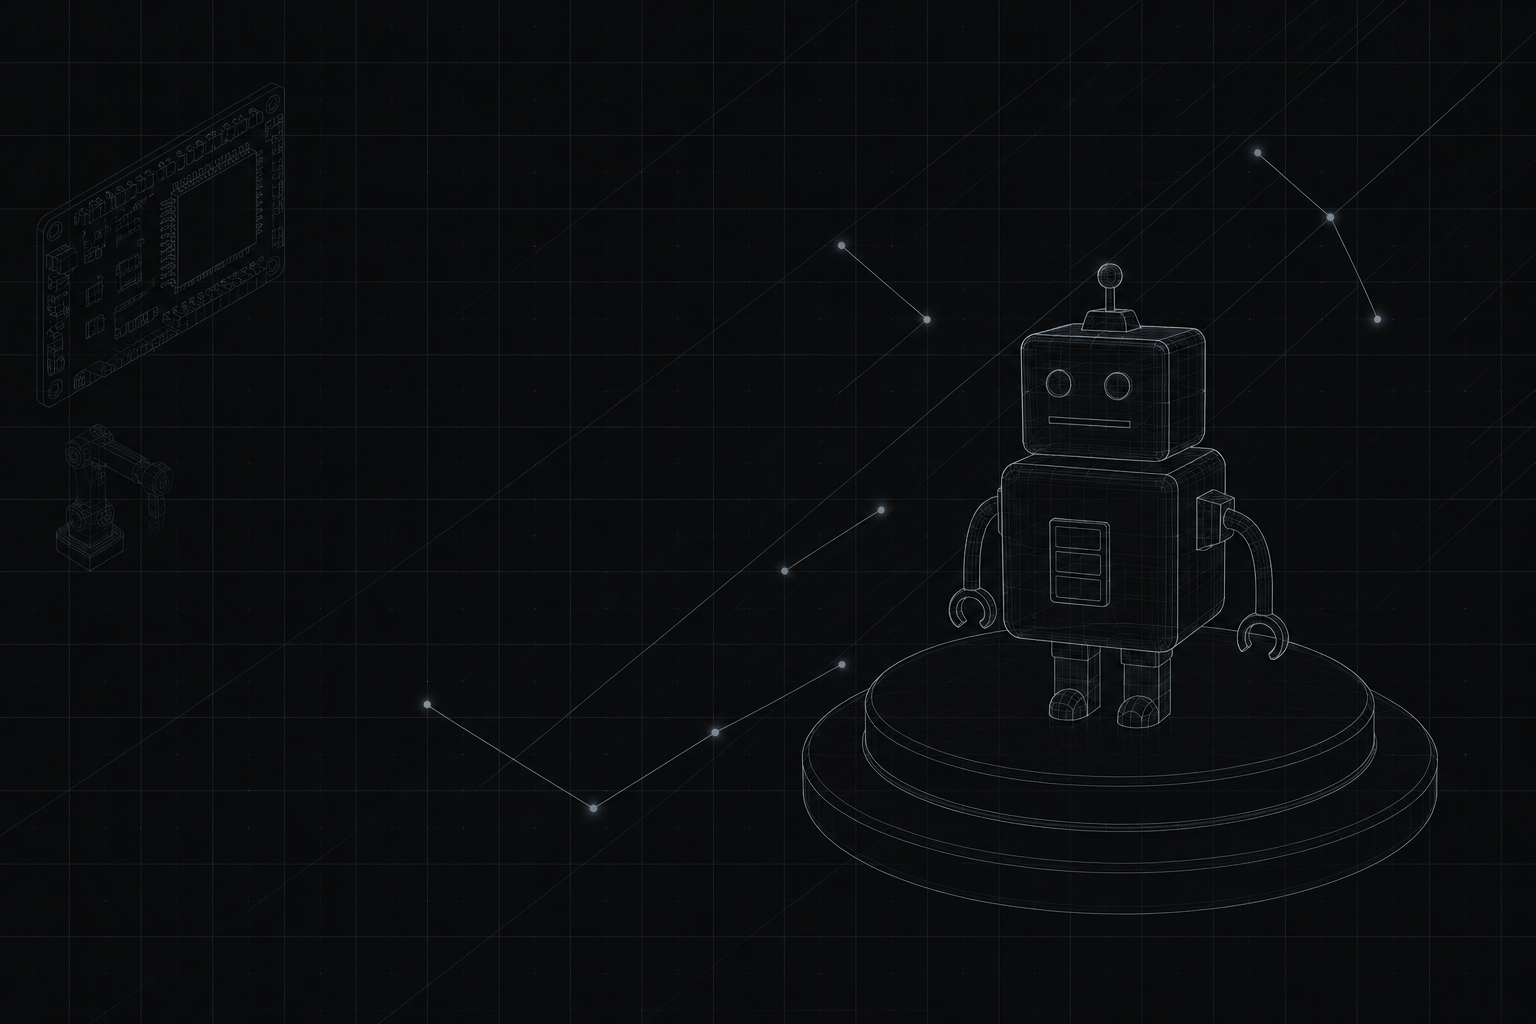
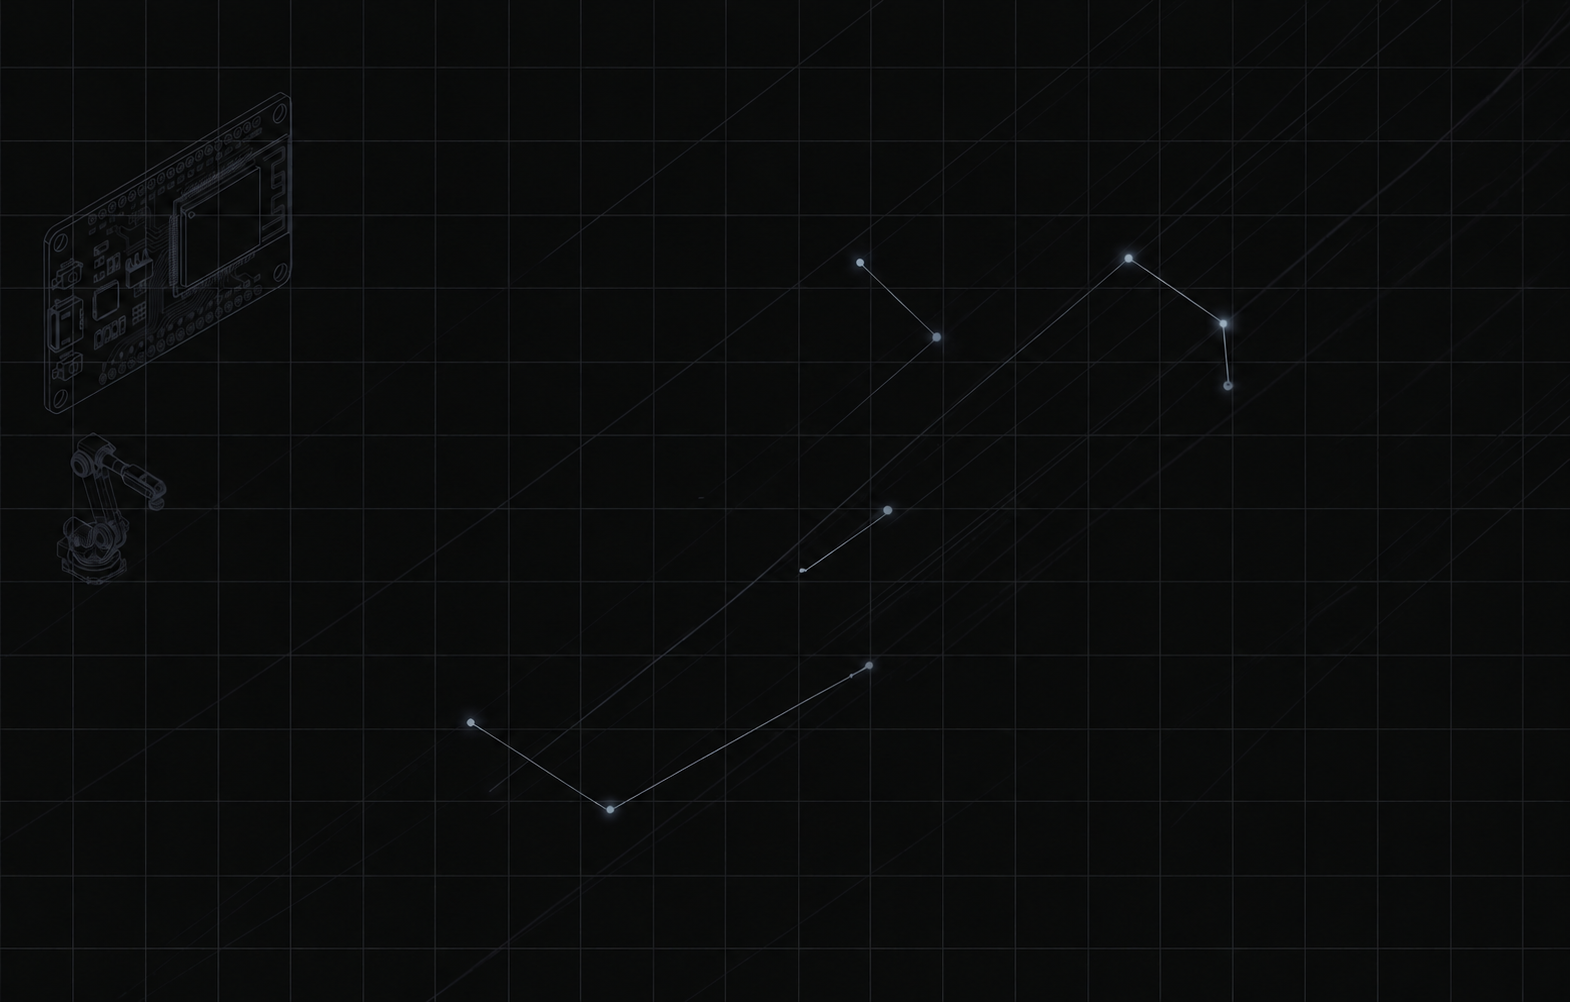
feat: about page

diff --git a/components/About.tsx b/components/About.tsx
@@ -1,0 +1,103 @@
+'use client';
+
+import { useRef, useState } from 'react';
+import { motion, useScroll, useTransform, useMotionValueEvent, AnimatePresence } from 'framer-motion';
+
+export default function About() {
+  const sectionRef = useRef<HTMLElement>(null);
+  
+  // We use this state to strictly track which text should exist in the HTML
+  const [activeIndex, setActiveIndex] = useState(0);
+  
+  const { scrollYProgress } = useScroll({
+    target: sectionRef,
+    offset: ["start start", "end end"]
+  });
+
+  // This acts as our precise scroll engine. 
+  useMotionValueEvent(scrollYProgress, "change", (latest) => {
+    if (latest < 0.4) {
+      setActiveIndex(0); // Show ROBOVITICS
+    } else if (latest >= 0.4 && latest < 0.6) {
+      setActiveIndex(-1); // Show NOTHING (The dead zone gap)
+    } else {
+      setActiveIndex(1); // Show VIT
+    }
+  });
+
+  const progressHeight = useTransform(scrollYProgress, [0, 1], ["0%", "100%"]);
+
+  return (
+    <section id="about" ref={sectionRef} className="relative z-40 h-[300vh] w-full text-white pointer-events-none">
+      
+      <div className="sticky top-0 h-screen w-full flex flex-col justify-center overflow-hidden px-6 md:px-12 lg:px-24 max-w-[1600px] mx-auto pointer-events-auto">
+        
+        {/* Section Header */}
+        <div className="absolute top-24 left-6 md:left-12 lg:left-24 font-mono text-gray-500 text-sm tracking-widest uppercase">
+          <span className="text-white font-bold mr-2">01.</span> System.Logs // About
+        </div>
+
+        {/* Content Container */}
+        <div className="relative w-full h-[400px] flex items-center mt-12">
+          
+          {/* Vertical Scroll Indicator */}
+          <div className="absolute left-0 top-0 bottom-0 w-[2px] bg-gray-900 rounded-full hidden md:block">
+            <motion.div 
+              style={{ height: progressHeight }} 
+              className="w-full bg-gray-300 rounded-full shadow-[0_0_10px_#D1D5DB]"
+            />
+          </div>
+
+          {/* Text Area */}
+          <div className="relative w-full h-full ml-0 md:ml-12 lg:ml-20">
+            
+            {/* AnimatePresence guarantees only ONE of these blocks can exist at a time */}
+            <AnimatePresence mode="wait">
+              
+              {/* PART 1: ROBOVITICS TEXT */}
+              {activeIndex === 0 && (
+                <motion.div 
+                  key="robo"
+                  initial={{ opacity: 0, y: 50 }}
+                  animate={{ opacity: 1, y: 0 }}
+                  exit={{ opacity: 0, y: -50 }}
+                  transition={{ duration: 0.6, ease: "easeInOut" }}
+                  className="absolute inset-0 flex flex-col justify-center"
+                >
+                  <h2 className="text-5xl md:text-7xl font-black tracking-tighter mb-6 drop-shadow-lg">
+                    WE ARE <br/> <span className="text-gray-300">ROBOVITICS.</span>
+                  </h2>
+                  <p className="text-gray-400 font-mono text-base md:text-lg max-w-2xl leading-relaxed drop-shadow-md">
+                    The official robotics club of VIT Vellore. We are a collective of engineers, designers, and innovators dedicated to pushing the boundaries of autonomous systems. We don't just study robotics; we solder the circuits, write the algorithms, and machine the parts that bring machines to life.
+                  </p>
+                </motion.div>
+              )}
+
+              {/* PART 2: VIT TEXT */}
+              {activeIndex === 1 && (
+                <motion.div 
+                  key="vit"
+                  initial={{ opacity: 0, y: 50 }}
+                  animate={{ opacity: 1, y: 0 }}
+                  exit={{ opacity: 0, y: -50 }}
+                  transition={{ duration: 0.6, ease: "easeInOut" }}
+                  className="absolute inset-0 flex flex-col justify-center"
+                >
+                  <h2 className="text-5xl md:text-7xl font-black tracking-tighter mb-6 drop-shadow-lg">
+                    POWERED BY <br/> <span className="text-gray-300">VIT VELLORE.</span>
+                  </h2>
+                  <p className="text-gray-400 font-mono text-base md:text-lg max-w-2xl leading-relaxed drop-shadow-md">
+                    Vellore Institute of Technology provides the launchpad for our ambitions. Backed by world-class infrastructure and a culture that champions disruptive tech, we leverage the university's cutting-edge manufacturing labs and research facilities to turn theoretical blueprints into heavy-duty reality.
+                  </p>
+                </motion.div>
+              )}
+              
+            </AnimatePresence>
+
+          </div>
+        </div>
+
+      </div>
+    </section>
+  );
+}

diff --git a/components/Hero.tsx b/components/Hero.tsx
@@ -2,6 +2,7 @@
 
 import { useState, useEffect } from 'react';
 import { motion, useScroll, useTransform } from 'framer-motion';
+import Image from 'next/image';
 
 export default function Hero() {
   const fullSubtitleText = "The Official Robotics Club of VIT Vellore";
@@ -22,11 +23,11 @@ export default function Hero() {
   };
 
   const letterVariant = {
-    hidden: { y: "100%", opacity: 0 },
+    hidden: { y: 60, opacity: 0 },
     visible: { 
-      y: "0%", 
+      y: 0, 
       opacity: 1,
-      transition: { duration: 0.7, ease: [0.22, 1, 0.36, 1] }
+      transition: { duration: 0.8, ease: [0.22, 1, 0.36, 1] }
     },
   };
 
@@ -55,7 +56,7 @@ export default function Hero() {
 
       {/* --- SCROLL ANIMATIONS --- */}
       
-      {/* 1. Circuit Trace Scroll Progress Line (Changed to gray-300) */}
+      {/* 1. Circuit Trace Scroll Progress Line */}
       <motion.div 
         className="fixed top-0 right-0 w-1 bg-gray-300 origin-top z-50 shadow-[0_0_15px_#D1D5DB]"
         style={{ 
@@ -78,35 +79,64 @@ export default function Hero() {
         </svg>
       </motion.div>
 
-      {/* --- HERO TEXT SECTION --- */}
-      <div className="relative z-10 flex-1 flex flex-col justify-center px-6 md:px-24 w-full max-w-[1400px] mx-auto">
-        <motion.h1 
-          variants={titleContainer}
-          initial="hidden"
-          animate="visible"
-          className="text-[13vw] md:text-[8.5rem] leading-[1.05] font-black tracking-tighter mb-2 flex flex-wrap"
-        >
-          {"ROBOVITICS".split("").map((char, index) => (
-            <span key={index} className="overflow-hidden inline-block pb-2">
-              <motion.span variants={letterVariant} className="inline-block">{char}</motion.span>
-            </span>
-          ))}
-        </motion.h1>
-        <motion.p 
-          initial={{ opacity: 0 }}
-          animate={{ opacity: 1 }}
-          transition={{ delay: 0.8, duration: 0.5 }}
-          className="text-lg md:text-2xl text-gray-300 font-mono mt-2 flex items-center h-10 whitespace-nowrap"
-        >
-          {/* Changed the text and background classes to gray-300 */}
-          <span className="text-gray-300 font-bold mr-3">{'>'}</span>
-          <span>{typedSubtitle}</span>
-          <motion.span 
-            animate={{ opacity: [1, 0] }}
-            transition={{ repeat: Infinity, duration: 0.8, ease: "linear" }}
-            className="inline-block w-3 md:w-4 h-6 md:h-7 bg-gray-300 ml-2 translate-y-0.5 shadow-[0_0_8px_#D1D5DB]"
-          />
-        </motion.p>
+      {/* --- HERO CONTENT SECTION --- */}
+      <div className="relative z-10 flex-1 flex flex-col lg:flex-row items-center justify-between px-6 md:px-12 lg:px-24 w-full max-w-[1600px] mx-auto gap-8 lg:gap-12 pb-12 lg:pb-0">
+        
+        {/* LEFT SIDE: Text Container */}
+        <div className="relative z-20 w-full lg:w-[60%] flex flex-col justify-center pointer-events-auto pt-20 lg:pt-0">
+          
+          <motion.h1 
+            variants={titleContainer}
+            initial="hidden"
+            animate="visible"
+            className="text-[12vw] md:text-[5.5rem] lg:text-[6rem] xl:text-[7.5rem] 2xl:text-[8.5rem] leading-[1.05] font-black tracking-tighter mb-4 flex flex-nowrap"
+          >
+            {"ROBOVITICS".split("").map((char, index) => (
+              <span key={index} className="inline-block">
+                <motion.span variants={letterVariant} className="inline-block">{char}</motion.span>
+              </span>
+            ))}
+          </motion.h1>
+          
+          <motion.div 
+            initial={{ opacity: 0 }}
+            animate={{ opacity: 1 }}
+            transition={{ delay: 0.8, duration: 0.5 }}
+            className="text-base md:text-xl lg:text-xl xl:text-2xl text-gray-300 font-mono flex items-center h-10 whitespace-nowrap"
+          >
+            <span className="text-gray-300 font-bold mr-3">{'>'}</span>
+            <span>{typedSubtitle}</span>
+            <motion.span 
+              animate={{ opacity: [1, 0] }}
+              transition={{ repeat: Infinity, duration: 0.8, ease: "linear" }}
+              className="inline-block flex-shrink-0 w-3 md:w-4 h-5 md:h-7 bg-gray-300 ml-2 translate-y-[1px] md:translate-y-0.5 shadow-[0_0_8px_#D1D5DB]"
+            />
+          </motion.div>
+        </div>
+
+        {/* RIGHT SIDE: Massive Bot Image */}
+        <div className="relative z-20 w-full lg:w-[40%] h-[45vh] md:h-[60vh] lg:h-[80vh] max-h-[950px] mt-8 lg:mt-0 pointer-events-none flex justify-end">
+          <motion.div 
+            initial={{ opacity: 0, x: 100 }}
+            // FIX: Removed the floating Y animation entirely so it locks in place
+            animate={{ opacity: 1, x: "10%" }}
+            transition={{ 
+              opacity: { delay: 0.8, duration: 1 },
+              x: { delay: 0.8, duration: 1, ease: "easeOut" }
+            }}
+            className="relative w-full h-full scale-110 lg:scale-[1.3] xl:scale-[1.45] origin-center"
+          >
+            <Image 
+              src="/bot.png" 
+              alt="roboVITics Bot Mascot" 
+              fill
+              // FIX: Added opacity-80 to make it slightly transparent
+              className="object-contain object-center lg:object-right drop-shadow-[0_0_30px_rgba(209,213,219,0.15)] opacity-70"
+              priority
+            />
+          </motion.div>
+        </div>
+
       </div>
     </>
   );

diff --git a/app/page.tsx b/app/page.tsx
@@ -1,16 +1,17 @@
 import Navbar from '@/components/Navbar';
 import Hero from '@/components/Hero';
+import About from '@/components/About';
 
 export default function Page() {
   return (
-    <main className="relative min-h-[200vh] bg-black text-white flex flex-col overflow-x-hidden font-sans selection:bg-[#00E5FF] selection:text-black">
+    // FIX: Removed 'overflow-x-hidden' from this line so the Sticky scroll works!
+    <main className="relative bg-black text-white flex flex-col font-sans selection:bg-gray-300 selection:text-black">
       
-      {/* Top Section Layout (100vh) */}
+      {/* Top Section Layout (Hero View) */}
       <div className="relative h-screen flex flex-col justify-between z-20">
         <Navbar />
         <Hero />
         
-        {/* Footer attached to the bottom of the Hero view */}
         <footer className="relative z-10 w-full p-6 md:px-12 md:py-10 flex flex-col md:flex-row justify-between items-start md:items-end font-mono text-xs md:text-sm text-gray-500 gap-6">
           <div>
             <p>Established in <span className="text-gray-300">2009</span>.</p>
@@ -23,14 +24,8 @@ export default function Page() {
         </footer>
       </div>
 
-      {/* About Section */}
-      <section id="about" className="relative z-10 h-screen w-full px-6 md:px-24 max-w-[1400px] mx-auto pt-32">
-        <h2 className="text-4xl font-black tracking-tight mb-8">INITIATING SYSTEMS...</h2>
-        <p className="text-gray-400 font-mono max-w-2xl leading-relaxed">
-          Welcome to the next phase. Notice how the gear rotated and the cyan circuit trace filled up as you scrolled down? 
-          This is where your actual about section content will go.
-        </p>
-      </section>
+      {/* The Interactive About Section */}
+      <About />
 
     </main>
   );